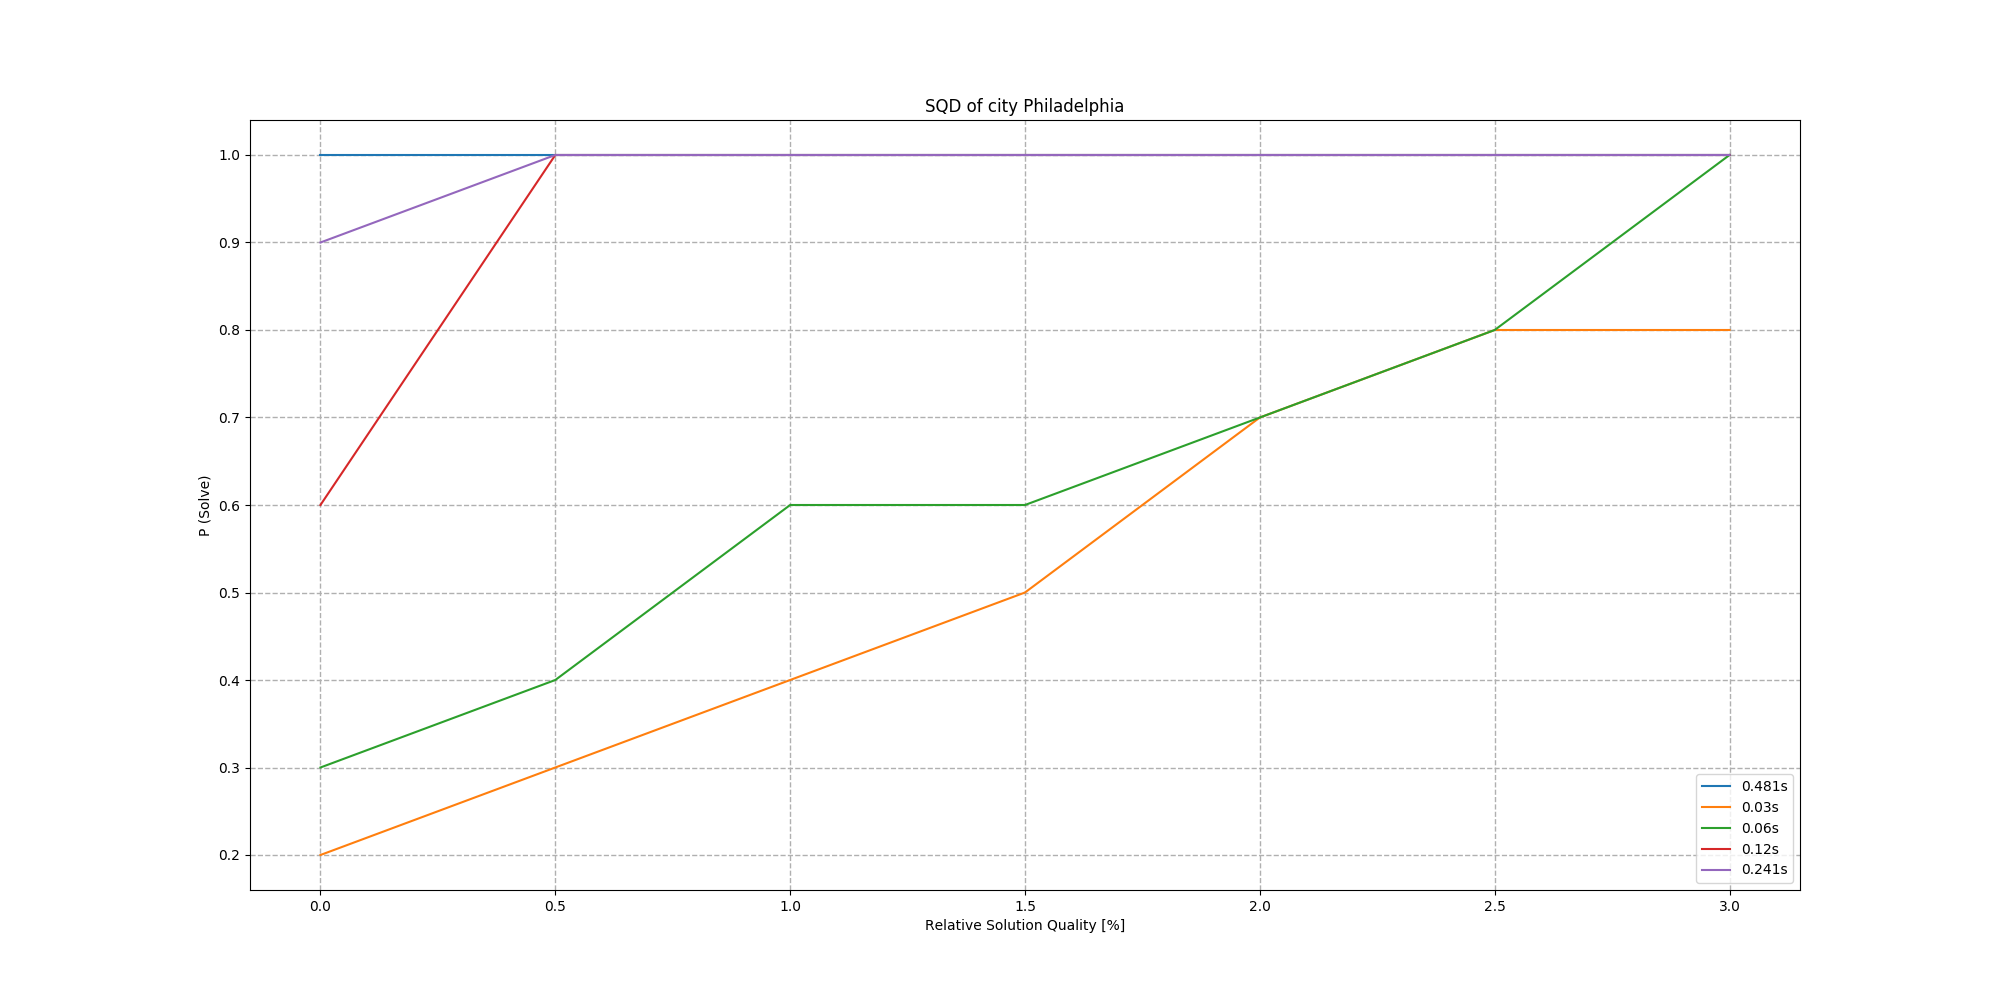
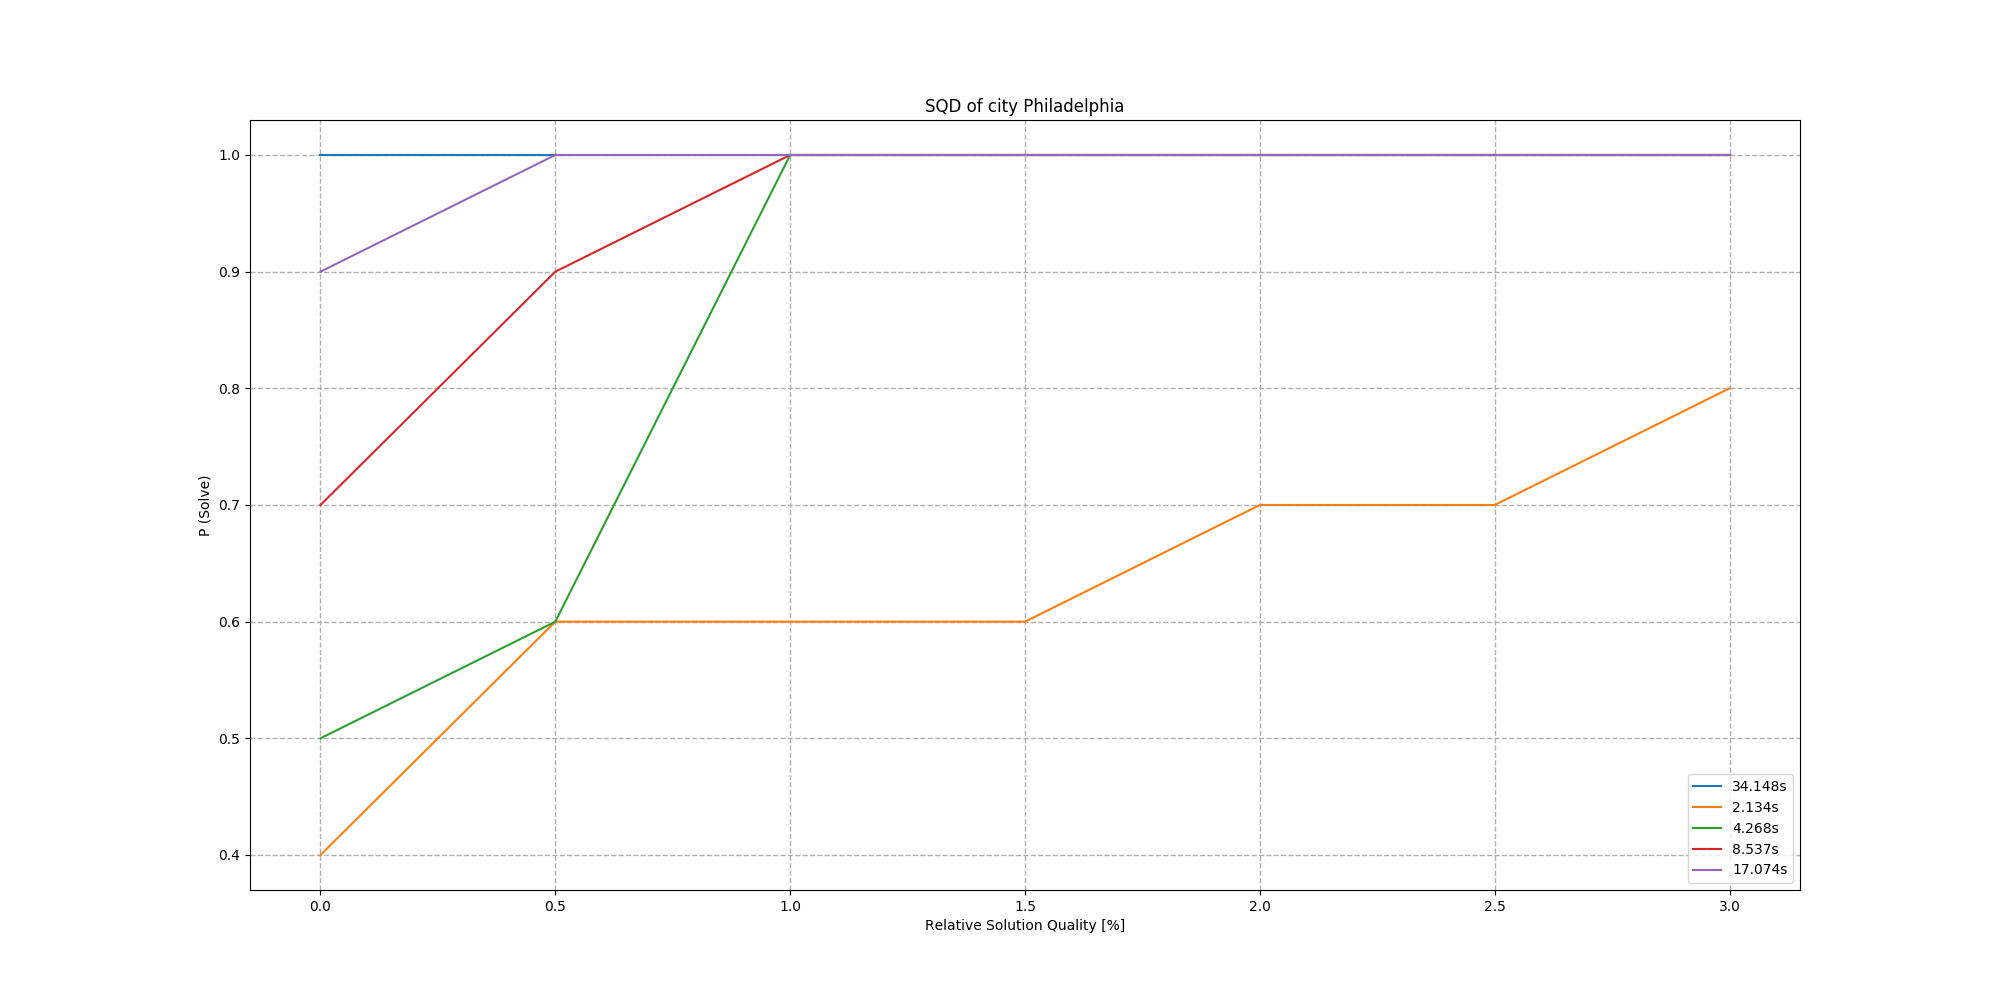
plots done

diff --git a/code/evaluation_plots.py b/code/evaluation_plots.py
@@ -43,7 +43,7 @@ def box_plots_data(seeds, cities, optimal_vals, q_stars, algo):
     for c in range(len(cities)):
         print
         print "city: ", cities[c]
-        if cities[c] == 'Roanoke':
+        if algo =='LS2' and cities[c] == 'Roanoke':
             traces, times = read_files(seeds, cities[c], algo)
             optimal_val = optimal_vals[c]
             q_star = q_stars[-1]
@@ -56,7 +56,7 @@ def box_plots_data(seeds, cities, optimal_vals, q_stars, algo):
                         break
             print len(times_boxplot)
             print times_boxplot
-            with open("plots/box_plot/boxplot_data_Roanoke.csv", "wb") as f:
+            with open("plots/box_plot/boxplot_data_" + str(algo) + "_Roanoke.csv", "wb") as f:
                 writer = csv.writer(f)
                 writer.writerows([['Roanoke']])
                 writer.writerows(times_boxplot)
@@ -82,7 +82,7 @@ def box_plots_data(seeds, cities, optimal_vals, q_stars, algo):
     t_times_boxplots = zip(*times_boxplots)  # transpose
     # print len(t_times_boxplots), len(t_times_boxplots[0])
 
-    with open("plots/box_plot/boxplot_data.csv", "wb") as f:
+    with open("plots/box_plot/boxplot_data_" + str(algo) + '.csv', "wb") as f:
         writer = csv.writer(f)
         writer.writerows([cities_abbr])
         writer.writerows(t_times_boxplots)
@@ -158,11 +158,11 @@ def qrtd_sqd_plot(seeds, cities, optimal_vals, q_stars, algo):
             plt.plot(plot_times, p_solve, label=label)  # plot line of current p* of this city
 
         plt.legend()
-        plt.title('QRTD of city ' + str(cities[c]))
+        plt.title('QRTD of city ' + str(cities[c]) + 'with algorithm' + str(algo))
         plt.xlabel('Run-time (seconds)')
         plt.ylabel('P (Solve)')
         plt.grid(linestyle='dashed', linewidth=1)
-        plot_name = 'plots/QRTD/' + str(cities[c]) + '_QRTD.png'
+        plot_name = 'plots/QRTD/' + str(cities[c]) + '_' + str(algo) + '_QRTD.png'
         plt.savefig(plot_name)
 
         # plot SQD
@@ -184,11 +184,11 @@ def qrtd_sqd_plot(seeds, cities, optimal_vals, q_stars, algo):
             t_sqd = len(plot_times) // pow(2, step)
             step -= 1
         plt.legend()
-        plt.title('SQD of city ' + str(cities[c]))
+        plt.title('SQD of city ' + str(cities[c]) + 'with algorithm' + str(algo))
         plt.xlabel('Relative Solution Quality [%]')
         plt.ylabel('P (Solve)')
         plt.grid(linestyle='dashed', linewidth=1)
-        plot_name_sqd = 'plots/SQD/' + str(cities[c]) + '_SQD.png'
+        plot_name_sqd = 'plots/SQD/' + str(cities[c]) + '_' + str(algo) + '_SQD.png'
         plt.savefig(plot_name_sqd)
 
 
@@ -198,14 +198,10 @@ def main():
     optimal_vals = [277952, 62962, 6859, 2003763, 1395981, 893536, 7542, 52643, 1555060, 100431, 810196, 132709, 1176151, 655454]
     q_stars = [0., 0.5, 1., 1.5, 2., 2.5, 3.]  # relative solution quality q*[%]
 
-    # cities = ['Atlanta']
-    # optimal_vals = [2003763]
-    # q_stars = [0., 0.5]  # relative solution quality q*[%]
-
-    # box_plots_data(seeds, cities, optimal_vals, q_stars, 'LS1')
+    box_plots_data(seeds, cities, optimal_vals, q_stars, 'LS1')
     box_plots_data(seeds, cities, optimal_vals, q_stars, 'LS2')
 
-    # qrtd_sqd_plot(seeds, cities, optimal_vals, q_stars, 'LS1')
+    qrtd_sqd_plot(seeds, cities, optimal_vals, q_stars, 'LS1')
     qrtd_sqd_plot(seeds, cities, optimal_vals, q_stars, 'LS2')
 
 
